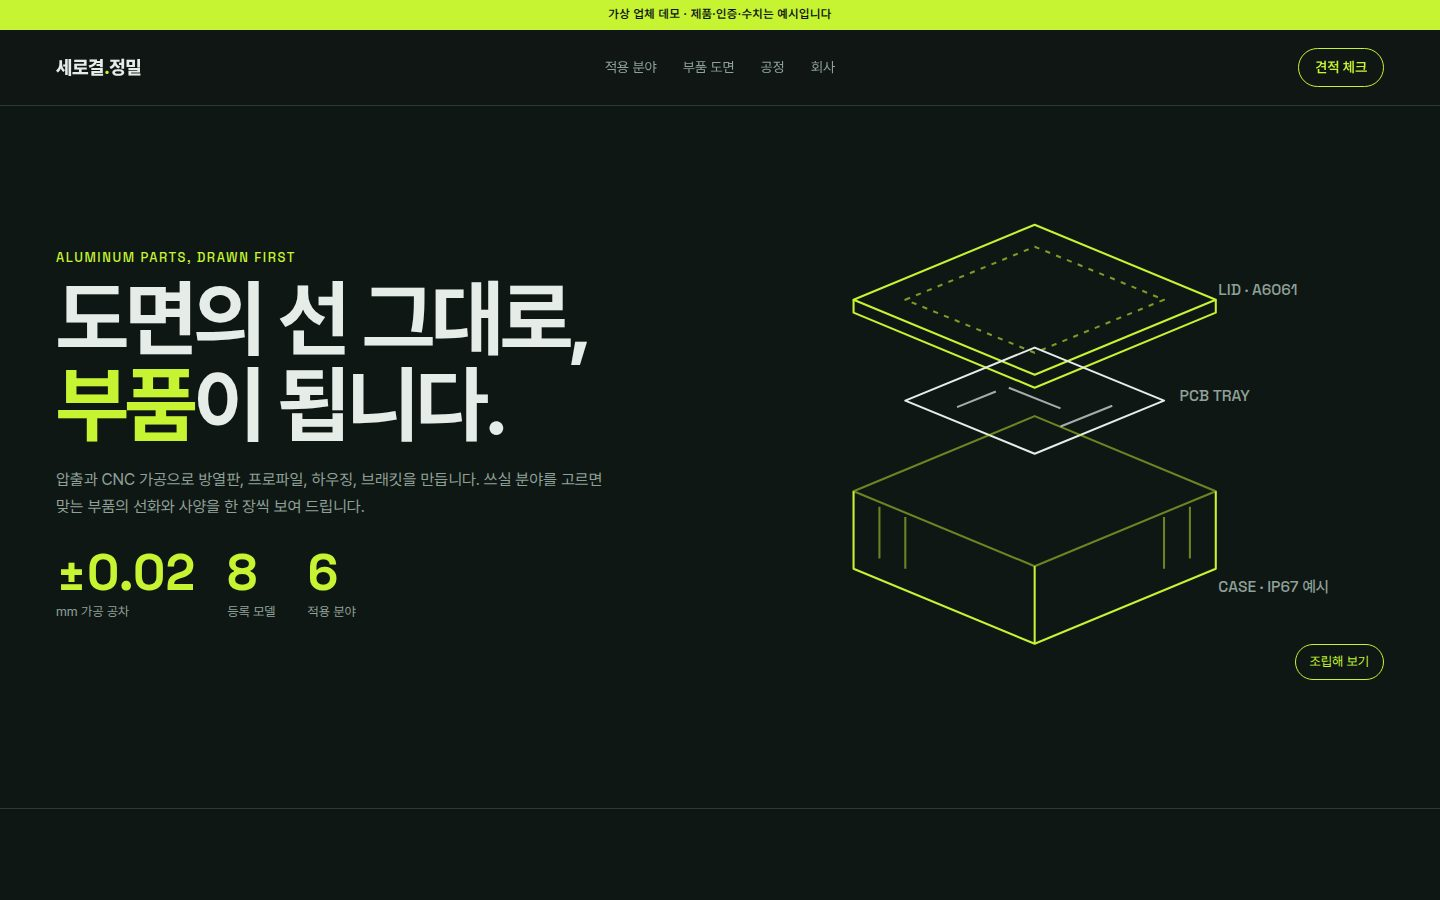
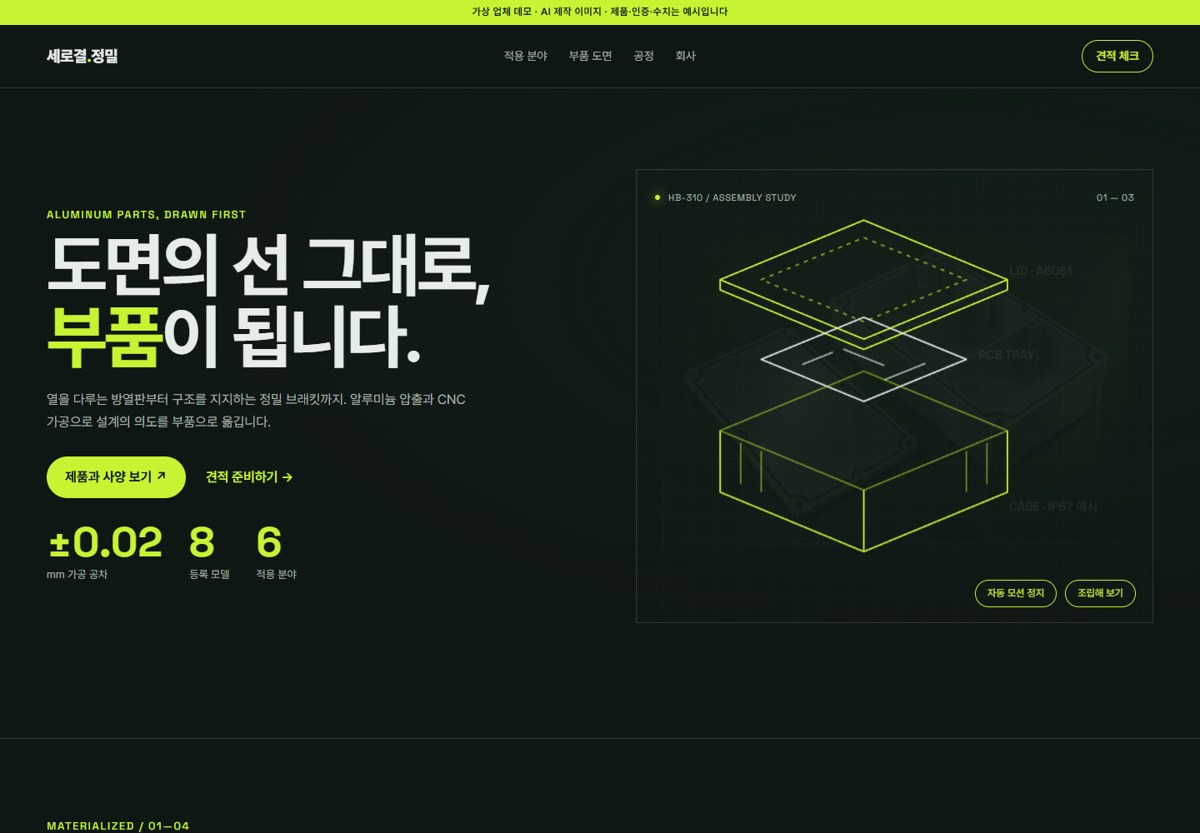
Develop ISOLINE product visuals, motion hero and engineering content

diff --git a/templates/biz-manufacturing/isoline/src/app/globals.css b/templates/biz-manufacturing/isoline/src/app/globals.css
@@ -6,7 +6,7 @@
   --panel: #16211d;
   --line: #2b3a34;
   --text: #e6ece8;
-  --muted: #8fa199;
+  --muted: #a5b6ad;
   --lime: #c6f432;
   --pad: clamp(16px, 4vw, 56px);
   --sans: "Pretendard Variable", Pretendard, system-ui, sans-serif;
@@ -214,3 +214,38 @@ table.spec.wide th { width: 22%; }
   html { scroll-behavior: auto; }
   .explode .part, .explode .lbl { transition: none; }
 }
+
+/* ISOLINE material studies */
+.hero { background: radial-gradient(ellipse at 80% 30%, #263b2633, transparent 60%); }
+.hero-actions { display:flex; align-items:center; gap:24px; margin:28px 0; flex-wrap:wrap; }
+.hero-actions .more { margin:0; }
+.explode { border:1px solid var(--line); padding:26px 14px 60px; background:linear-gradient(#2b3a3422 1px,transparent 1px),linear-gradient(90deg,#2b3a3422 1px,transparent 1px); background-size:32px 32px; }
+.model-label { display:flex; align-items:center; gap:10px; font:11px var(--num); letter-spacing:.06em; padding:0 8px; }
+.model-label span:last-child { margin-left:auto; }
+.live-dot { width:6px; height:6px; border-radius:50%; background:var(--lime); box-shadow:0 0 12px #c6f455; }
+.motion-controls { position:absolute; bottom:18px; left:20px; right:20px; display:flex; justify-content:flex-end; gap:10px; }
+.motion-controls button { position:static; font-size:12px; }
+.hero-product { position:absolute; inset:55px 12px 65px; opacity:1; transition:opacity 1.2s ease,transform 1.8s ease; }
+.hero-product img { height:100%; object-fit:contain; background:transparent; }
+.explode svg { position:relative; opacity:0; transition:opacity 1.2s ease; }
+.explode.open svg { opacity:1; }
+.explode.open .hero-product { opacity:0; transform:scale(.93); }
+.product-grid { display:grid; grid-template-columns:repeat(2,minmax(0,1fr)); gap:28px; }
+.product-card { text-decoration:none; min-width:0; }
+.photo-wrap { position:relative; overflow:hidden; border:1px solid var(--line); }
+.product-photo { display:block; width:100%; height:auto; aspect-ratio:3/2; object-fit:cover; background:var(--panel); }
+.photo-wrap img { transition:transform .7s ease; }
+.product-card:hover img { transform:scale(1.035); }
+.photo-number { position:absolute; top:18px; left:20px; color:var(--lime); font-size:13px; }
+.product-card-copy { padding:18px 0 28px; border-bottom:1px solid var(--line); }
+.product-card-copy h3 { font-size:24px; margin:8px 0; }
+.product-card-copy p { color:var(--muted); max-width:480px; margin:0 0 14px; }
+.product-card-copy small { color:var(--lime); font-size:13px; }
+.showcase .sec-head { margin-bottom:30px; }
+.showcase .product-card:nth-child(even) { margin-top:64px; }
+.drawing-toggle { margin-top:16px; color:var(--muted); font-size:13px; }
+.drawing-toggle summary { cursor:pointer; padding:12px 0; }
+.sheet figure img { border:1px solid var(--line); }
+.paper { padding:16px; background:var(--panel); }
+@media(max-width:560px) { .product-grid { grid-template-columns:1fr; gap:20px; } .showcase .product-card:nth-child(even) { margin-top:0; } .hero { padding-top:36px; } .hero-actions { gap:18px; } .product-card-copy h3 { font-size:22px; } }
+@media(prefers-reduced-motion:reduce) { .photo-wrap img,.hero-product,.explode svg { transition:none; } }

diff --git a/templates/biz-manufacturing/isoline/src/app/parts/[id]/page.tsx b/templates/biz-manufacturing/isoline/src/app/parts/[id]/page.tsx
@@ -4,6 +4,8 @@ import Ld from "@/components/Ld";
 import PageTop from "@/components/PageTop";
 import PartLines from "@/components/PartLines";
 import TitleBlock from "@/components/TitleBlock";
+import ProductImage from "@/components/ProductImage";
+import { engineering } from "@/data/engineering";
 import { applicationOf, categoryOf, getProduct, products } from "@/data/catalog";
 import { crumbs, product } from "@/lib/schema";
 import { meta } from "@/lib/seo";
@@ -29,11 +31,12 @@ export default async function PartPage({ params }: PageProps<"/parts/[id]">) {
       <PageTop kicker={`${cat.en} · ${p.id}`} title={p.name} lead={p.summary} trail={[{ href: "/parts/", label: "PARTS" }, { href: `/parts/${p.id}/`, label: p.id }]} />
       <section className="sec drawing-sheet">
         <div className="paper">
-          <PartLines category={p.category} dims />
+          <ProductImage p={p} eager />
+          <details className="drawing-toggle"><summary>단면 선화 보기 · 형상 참고</summary><PartLines category={p.category} dims /></details>
           <TitleBlock p={p} />
         </div>
         <div className="side">
-          <p className="caption"><b>이미지 설명</b> {p.image}</p>
+          <p className="caption">AI 제작 제품 이미지 · 실제 형상과 성능을 보증하는 도면이 아닙니다.</p>
           <h2>사양</h2>
           <table className="spec"><tbody>{Object.entries(p.spec).map(([k, v]) => (<tr key={k}><th scope="row">{k}</th><td className="num">{v}</td></tr>))}</tbody></table>
           <h2>특징</h2>
@@ -42,6 +45,13 @@ export default async function PartPage({ params }: PageProps<"/parts/[id]">) {
           <p className="apps">{p.apps.map((a) => <Link key={a} href={`/fields/#${a}`}>{applicationOf(a).name}</Link>)}</p>
           <h2>공정</h2>
           <p className="num proc">{cat.process}</p>
+          <h2>설계 포인트</h2>
+          <p>{engineering[p.category].intro}</p>
+          <h2>주문 가공 옵션</h2>
+          <ul className="ticks">{engineering[p.category].options.map((x) => <li key={x}>{x}</li>)}</ul>
+          <h2>견적 전 준비할 정보</h2>
+          <ul className="ticks">{engineering[p.category].checks.map((x) => <li key={x}>{x}</li>)}</ul>
+          <p className="hint">최소 주문 {p.moq} · 예상 납기 {p.lead}. 모든 사양은 가상 예시이며 실제 제작 시 도면·수량·시험 조건에 따라 협의합니다.</p>
           <Link className="go" href="/rfq/">이 부품으로 견적 체크</Link>
         </div>
       </section>

diff --git a/templates/biz-manufacturing/isoline/src/data/engineering.ts b/templates/biz-manufacturing/isoline/src/data/engineering.ts
@@ -1,0 +1,24 @@
+import type { CategoryId } from "./catalog";
+
+export const engineering: Record<CategoryId, { intro: string; options: string[]; checks: string[] }> = {
+  heatsink: {
+    intro: "발열원과 접촉하는 바닥면부터 공기가 지나는 핀 간격까지, 설치 환경에 맞춰 검토합니다. 냉각 방식과 사용 조건을 먼저 정하면 불필요한 크기와 무게를 줄일 수 있습니다.",
+    options: ["외형·핀 높이·핀 간격 조정", "장착 홀·탭·센서 포켓 가공", "자연대류·팬 냉각·수랭 구성 검토"],
+    checks: ["발열량과 목표 온도", "장착 방향·공기 흐름·접촉면 도면", "냉각수 종류·압력·누설 시험 조건(수랭)"]
+  },
+  profile: {
+    intro: "단면을 정한 뒤 절단 길이와 체결 위치를 맞춥니다. 프레임 전체의 하중과 조립 방법을 함께 검토해 프로파일과 연결 부품의 기준을 통일합니다.",
+    options: ["길이별 절단·끝단 탭·측면 홀", "브래킷·슬롯 너트 조합", "장착면 추가 가공·표면 색상 선택"],
+    checks: ["전체 조립 도면과 절단 목록", "하중·지지 간격·사용 환경", "레일 장착면 평면도와 볼트 피치"]
+  },
+  housing: {
+    intro: "내부 부품의 배치, 케이블 인입, 열 배출과 밀폐 조건을 함께 검토합니다. 가스켓과 체결 구조까지 정의해야 조립 단계의 반복 수정을 줄일 수 있습니다.",
+    options: ["커넥터·케이블 글랜드 홀 위치", "내부 격벽·기판 스탠드오프", "가스켓 홈·도장 색상·방열 리브"],
+    checks: ["내부 부품과 커넥터 배치 도면", "설치 환경과 요구 밀폐 시험", "발열량·접지·표면처리 제외 영역"]
+  },
+  bracket: {
+    intro: "베어링 자리와 기준면의 관계를 먼저 정의합니다. 중요 치수에 공차를 집중하고 나머지 면은 조립 요구에 맞춰 가공해 제작성과 검사 편의성을 높입니다.",
+    options: ["베어링 자리·기준면 정밀 가공", "경량화 포켓·체결 홀·탭", "경질 아노다이징·세척·개별 포장"],
+    checks: ["기준면과 중요 치수·공차", "하중 방향·조립 순서", "표면처리 후 치수와 검사 성적서 항목"]
+  }
+};

diff --git a/templates/biz-manufacturing/isoline/src/app/page.tsx b/templates/biz-manufacturing/isoline/src/app/page.tsx
@@ -2,6 +2,7 @@ import Link from "next/link";
 import Exploded from "@/components/Exploded";
 import FieldRing from "@/components/FieldRing";
 import PartLines from "@/components/PartLines";
+import ProductImage from "@/components/ProductImage";
 import { applications, categories, products } from "@/data/catalog";
 import { about, processSteps, stats } from "@/data/content";
 import { homeCopy as c, site } from "@/data/site";
@@ -17,6 +18,7 @@ export default function Home() {
           <p className="kicker">{c.kicker}</p>
           <h1>{c.title[0]}<br /><em>{c.title[1]}</em>{c.title[2]}</h1>
           <p className="lead">{c.lead}</p>
+          <div className="hero-actions"><Link className="go" href="/parts/">제품과 사양 보기 ↗</Link><Link className="more" href="/rfq/">견적 준비하기 →</Link></div>
           <div className="stats">
             {stats.slice(0, 1).map((s) => <div key={s.label}><b className="num">{s.value}</b><span>{s.label}</span></div>)}
             <div><b className="num">{products.length}</b><span>등록 모델</span></div>
@@ -24,6 +26,11 @@ export default function Home() {
           </div>
         </div>
         <Exploded />
+      </section>
+
+      <section className="sec showcase">
+        <div className="sec-head"><div><p className="kicker">Materialized / 01—04</p><h2>선에서 시작해,<br />금속으로 완성합니다.</h2></div><p className="lead">열을 내보내고, 구조를 지지하고, 부품을 보호합니다.<br />용도에 맞는 소재와 가공을 한 장의 사양으로 확인하세요.</p></div>
+        <div className="product-grid">{[products[0], products[2], products[4], products[6]].map((p, i) => <Link className="product-card" href={`/parts/${p.id}/`} key={p.id}><div className="photo-wrap"><ProductImage p={p} /><span className="photo-number num">0{i + 1}</span></div><div className="product-card-copy"><span className="code num">{p.id} / {p.spec["재질"]}</span><h3>{p.name} ↗</h3><p>{p.summary}</p><small>{p.spec["표면"] ?? p.spec["공차"]}</small></div></Link>)}</div>
       </section>
 
       <section className="sec">

diff --git a/templates/biz-manufacturing/isoline/src/components/Exploded.tsx b/templates/biz-manufacturing/isoline/src/components/Exploded.tsx
@@ -1,15 +1,25 @@
 "use client";
 // 첫 화면 분해 선화. 처음 열릴 때 부품이 위아래로 벌어지고, 버튼으로 분해/조립을 바꾼다.
 import { useEffect, useState } from "react";
+import ProductImage from "./ProductImage";
+import { products } from "@/data/catalog";
 
 export default function Exploded() {
   const [open, setOpen] = useState(false);
+  const [playing, setPlaying] = useState(true);
   useEffect(() => {
     const t = requestAnimationFrame(() => setOpen(true));
     return () => cancelAnimationFrame(t);
   }, []);
+  useEffect(() => {
+    if (!playing || window.matchMedia("(prefers-reduced-motion: reduce)").matches) return;
+    const timer = window.setInterval(() => setOpen((v) => !v), 4200);
+    return () => window.clearInterval(timer);
+  }, [playing]);
   return (
     <div className={`explode${open ? " open" : ""}`}>
+      <div className="model-label"><span className="live-dot" />HB-310 / ASSEMBLY STUDY<span>01 — 03</span></div>
+      <div className="hero-product"><ProductImage p={products[4]} eager /></div>
       <svg viewBox="0 0 480 360" role="img" aria-label="배터리 모듈 하우징 분해 선화: 뚜껑, 기판 트레이, 바닥 케이스">
         <g fill="none" stroke="var(--lime)" strokeWidth="1.6" strokeLinejoin="round">
           <g className="part lid">
@@ -30,7 +40,7 @@ export default function Exploded() {
         </g>
         <g className="lbl"><text x="352" y="70">LID · A6061</text><text x="322" y="152">PCB TRAY</text><text x="352" y="300">CASE · IP67 예시</text></g>
       </svg>
-      <button type="button" aria-pressed={open} onClick={() => setOpen((v) => !v)}>{open ? "조립해 보기" : "분해해 보기"}</button>
+      <div className="motion-controls"><button type="button" aria-pressed={playing} onClick={() => setPlaying((v) => !v)}>{playing ? "자동 모션 정지" : "자동 모션 재생"}</button><button type="button" aria-pressed={open} onClick={() => { setPlaying(false); setOpen((v) => !v); }}>{open ? "조립해 보기" : "분해해 보기"}</button></div>
     </div>
   );
 }

diff --git a/templates/biz-manufacturing/isoline/src/data/site.ts b/templates/biz-manufacturing/isoline/src/data/site.ts
@@ -7,7 +7,7 @@ export const site = {
   nameEn: "SEROGYEOL PRECISION",
   tagline: "도면의 선 그대로, 부품이 됩니다.",
   description: "알루미늄 압출과 CNC 가공으로 방열판, 프로파일, 하우징, 정밀 브래킷을 만드는 가상 제조사 데모. 부품을 선화와 도면 표제란으로 보여 주고, 적용 분야별로 맞는 부품과 공정을 안내합니다.",
-  demoNotice: "가상 업체 데모 · 제품·인증·수치는 예시입니다",
+  demoNotice: "가상 업체 데모 · AI 제작 이미지 · 제품·인증·수치는 예시입니다",
   founded: "1998",
   phone: "000-0000-0000",
   email: "rfq@example.co.kr",
@@ -27,7 +27,7 @@ export const colors = { bg: "#0f1714", panel: "#16211d", text: "#e6ece8", lime: 
 export const homeCopy = {
   kicker: "Aluminum parts, drawn first",
   title: ["도면의 선 그대로,", "부품", "이 됩니다."],
-  lead: "압출과 CNC 가공으로 방열판, 프로파일, 하우징, 브래킷을 만듭니다. 쓰실 분야를 고르면 맞는 부품의 선화와 사양을 한 장씩 보여 드립니다.",
+  lead: "열을 다루는 방열판부터 구조를 지지하는 정밀 브래킷까지. 알루미늄 압출과 CNC 가공으로 설계의 의도를 부품으로 옮깁니다.",
   fieldsTitle: "어디에 쓰실 건가요?",
   sheetsTitle: "부품 도면 목록",
   rfqTitle: "견적 전에 이것만 체크해 주세요",

diff --git a/templates/biz-manufacturing/isoline/src/components/Sheet.tsx b/templates/biz-manufacturing/isoline/src/components/Sheet.tsx
@@ -1,5 +1,5 @@
 import Link from "next/link";
-import PartLines from "./PartLines";
+import ProductImage from "./ProductImage";
 import { categoryOf, type Product } from "@/data/catalog";
 
 // 부품 한 장: 선화 + 이미지 설명 + 사양 표
@@ -8,13 +8,14 @@ export default function Sheet({ p }: { p: Product }) {
   return (
     <article className="sheet">
       <figure>
-        <PartLines category={p.category} />
-        <figcaption><b>이미지 설명</b> {p.image}</figcaption>
+        <Link href={`/parts/${p.id}/`} aria-label={`${p.name} 상세 보기`}><ProductImage p={p} /></Link>
+        <figcaption>{p.id} · AI 제작 제품 예시</figcaption>
       </figure>
       <div>
         <span className="code num">{p.id}</span>
         <h3><Link href={`/parts/${p.id}/`}>{p.name}</Link></h3>
         <p className="cat">{cat.name} · {cat.desc}</p>
+        <p>{p.summary}</p>
         <table className="spec">
           <tbody>
             {Object.entries(p.spec).map(([k, v]) => (<tr key={k}><th scope="row">{k}</th><td className="num">{v}</td></tr>))}

diff --git a/templates/biz-manufacturing/isoline/src/components/ProductImage.tsx b/templates/biz-manufacturing/isoline/src/components/ProductImage.tsx
@@ -1,0 +1,7 @@
+/* eslint-disable @next/next/no-img-element */
+import { BASE_PATH } from "@/lib/config";
+import { type Product } from "@/data/catalog";
+
+export default function ProductImage({ p, eager = false }: { p: Product; eager?: boolean }) {
+  return <img className="product-photo" src={`${BASE_PATH}/images/${p.id}.webp`} alt={`${p.name} — AI 제작 제품 예시`} width={1200} height={800} loading={eager ? "eager" : "lazy"} />;
+}

diff --git a/templates/biz-manufacturing/isoline/src/lib/schema.ts b/templates/biz-manufacturing/isoline/src/lib/schema.ts
@@ -27,6 +27,7 @@ export const product = (p: Product) => ({
   sku: p.id,
   category: categoryOf(p.category).name,
   description: p.summary,
+  image: absoluteUrl(`/images/${p.id}.webp`),
   url: absoluteUrl(`/parts/${p.id}`),
   manufacturer: { "@id": ORG },
   additionalProperty: Object.entries(p.spec).map(([name, value]) => ({ "@type": "PropertyValue", name, value })),

diff --git a/templates/biz-manufacturing/isoline/docs/site-spec.md b/templates/biz-manufacturing/isoline/docs/site-spec.md
@@ -8,8 +8,8 @@
 | 메시지 | 도면의 선 그대로, 부품이 됩니다 / 선화·표제란·공정으로 신뢰를 보여 줌 |
 | 톤 | 간결한, 기술적인, 차분한 / 금지: 최고·유일·100%, 인증·수치를 실제처럼 표기 |
 | 비주얼 | isoline: forest black #0f1714, panel #16211d, mist #e6ece8, chartreuse #c6f432 / Pretendard(한글, 자체 호스팅) + Space Grotesk(숫자·영문) / 등각 선화, 모눈 도면지, 도면 표제란 |
-| 모션 | 첫 화면 하우징 분해 선화(분해/조립 버튼). prefers-reduced-motion 이면 전환 없음 |
-| 이미지 | 사진 없음. 카테고리별 등각 선화 + 제품마다 "이미지 설명"(`catalog.ts` 의 `image`) |
+| 모션 | 하우징 이미지와 분해 선화 4.2초 자동 전환. 정지·재생·수동 조립/분해. prefers-reduced-motion 이면 자동 전환 없음 |
+| 이미지 | 제품별 AI 제작 WebP 8종. 상세에서 카테고리 선화 펼쳐 보기. 실제 제품과 성능을 보증하는 도면이 아닌 가상 예시 |
 | 정보구조 | 홈, 적용 분야(링), 부품 도면 목록, 부품 도면 상세 8, 공정, 회사, 견적 체크 / 홈: exploded-hero, field-ring, drawing-index, process, certs, rfq-cta |
 | 시그니처 | 분해 선화 히어로, 외곽선 글자 분야 링(주소 #분야 공유), 도면 표제란이 있는 부품 상세 |
 | 데이터 | `src/data/catalog.ts` 하나에서 카테고리 4 · 분야 6 · 모델 8. 부품을 추가하면 링·도면 목록·상세·sitemap·JSON-LD 에 자동 반영 |
@@ -17,3 +17,4 @@
 | 규제 | rules/common.md — 가상 업체 데모 표기, 인증·설비·수치는 예시 표기, 방수 등급은 "시험 조건 예시" |
 | 기능 | 견적 체크리스트(브라우저 안에서만, 서버 전송 없음), 메일 링크. 사이트 편집기(공통, 빌드 시 설치) |
 | 출발 시안 | concepts/biz-manufacturing/isoline · 같은 업종 flagship 은 fieldmap(분야 탐색형) |
+

diff --git a/templates/biz-manufacturing/isoline/docs/image-prompts.md b/templates/biz-manufacturing/isoline/docs/image-prompts.md
@@ -1,0 +1,15 @@
+# Product images · 2026-10-09
+
+Built-in image_gen used for 8 original generated product images. Final assets: public/images/{product-id}.webp. All fictional demonstration products, not engineering drawings or performance evidence.
+
+Common prompt: Use case product-mockup. Premium photorealistic studio industrial catalog photograph. Centered three-quarter view on dark forest green surface, brushed metal machining texture, soft silver rim light and subtle lime reflection, wide 3:2 landscape with margin. Physically credible geometry. No text, logos, people, collage.
+
+Subjects:
+- SH-120: black anodized aluminum skived heatsink, 52 fine upright parallel fins on a rectangular 120x80mm base.
+- CP-200: silver liquid cold plate with two fittings and cutaway serpentine channels.
+- RX-4040: three silver 40mm square T-slot extrusion beams, cross sections visible.
+- LR-15: long silver aluminum linear rail mounting base with regular countersunk bolt holes.
+- HB-310: grey aluminum battery enclosure, lid beside it, three internal compartments and gasket groove.
+- OT-500: white outdoor telecom enclosure with vertical heatsink ribs and four bottom cable glands.
+- BK-07: dark anodized L-shaped robot bearing bracket with circular bearing seat and threaded holes.
+- SM-3: three small square silver aluminum sensor mounts with machined slots and screw holes.

diff --git a/docs/decisions.md b/docs/decisions.md
@@ -136,3 +136,8 @@
 - 사진 경로는 GitHub Pages basePath를 포함한다. 대표 썸네일은 사진 로딩을 확인한 최신 홈 캡처를 사용한다.
 - 가상 사무소의 상담은 실제 접수 대신 당사자·날짜·자료·질문 네 칸 메모의 복사·파일 저장을 제공하고, 상담 방식 선택은 별도로 둔다. 서버 전송 없이 이용자가 직접 보관한다.
 - 공개 상태는 deployed, 사례 아카이브를 포함한 페이지 수는 7로 기록한다. 대표 카드·관리 목록을 동일한 현재 기능에 맞춘다.
+
+## 2026-10-09 — ISOLINE 제품 비주얼과 콘텐츠 확장
+- 사용자 요청으로 기존 isoline의 숲빛 검정·라임·선화 디자인을 유지하며 제품 8종 AI 이미지, 홈 제품 쇼케이스와 상세 가공 옵션·설계 포인트·견적 준비 정보를 추가한다.
+- 히어로는 제품 이미지와 분해 선화의 자동 전환, 모션 정지·재생·수동 조립/분해를 제공한다. 실제 영상 대신 접근 가능한 모션으로 구현.
+- 기존 GitHub Pages 주소와 14페이지, 견적 문안, 공통 에디터 및 가상 데모 표기를 유지한다. 이번 요청은 배포까지 위임한 것으로 진행한다.
